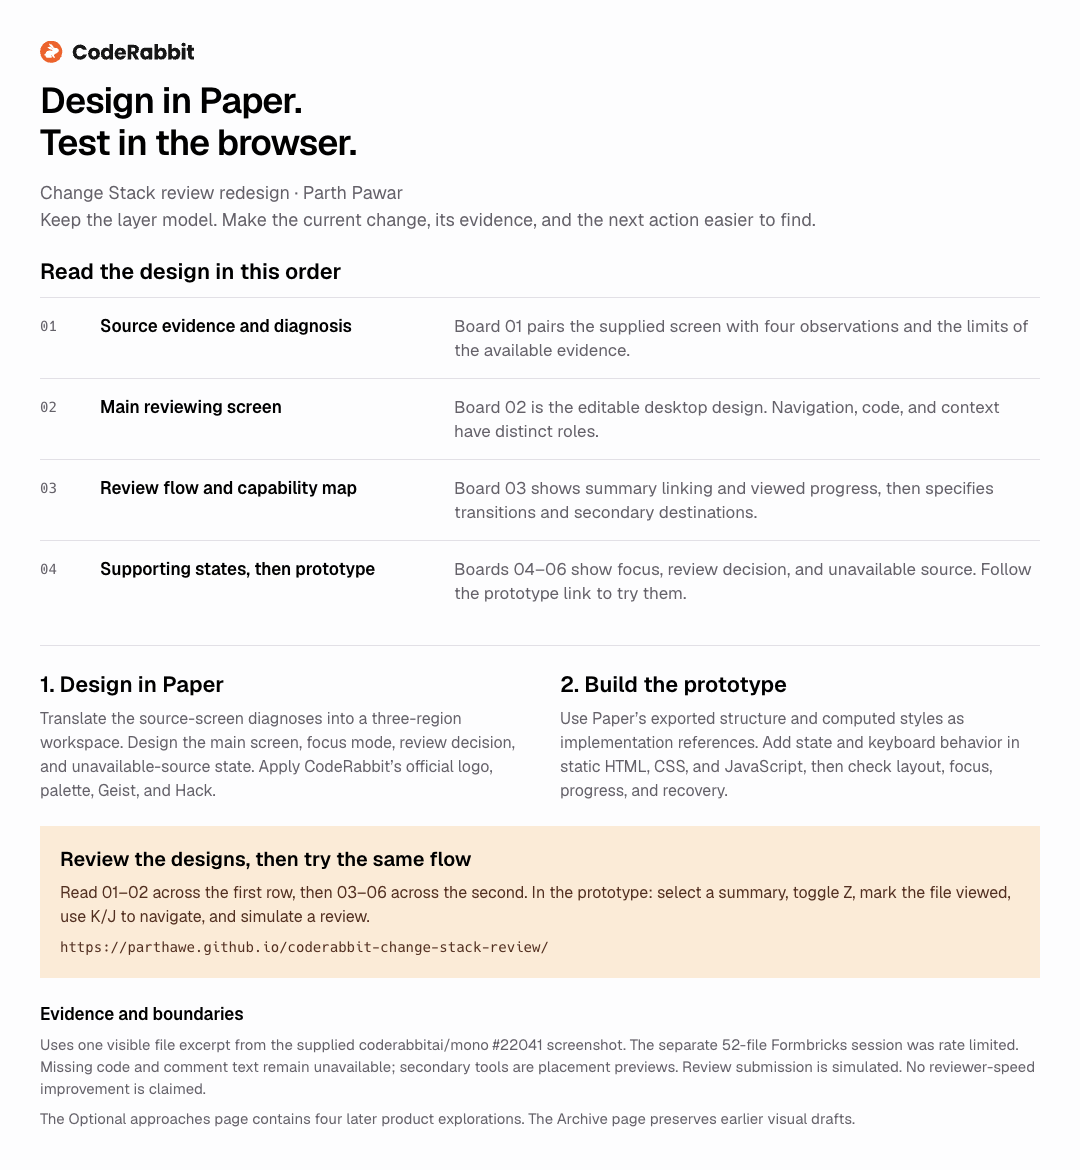
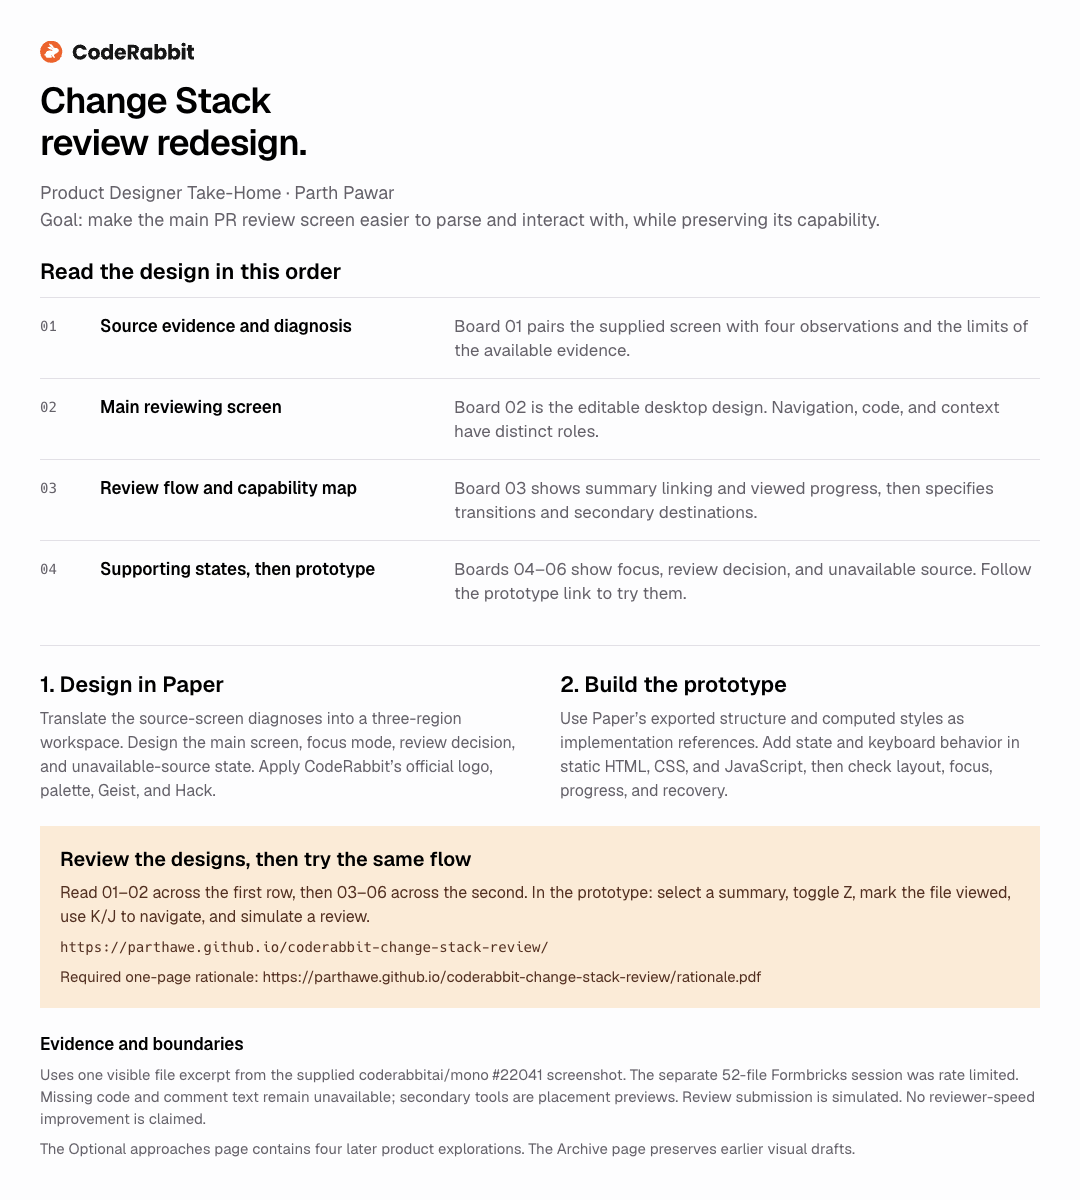
Clarify exact challenge scope and link required rationale

diff --git a/docs/REQUIREMENT-AUDIT.md b/docs/REQUIREMENT-AUDIT.md
@@ -14,7 +14,7 @@ The primary layer-based prototype is close to the assignment. The four later pro
 | Improve visual hierarchy and micro-interactions | J/K, Z, linked summary highlights, split/unified views, reversible viewed state, shortcut guards, draft entry, and simulated review work locally. | Covered within the excerpt |
 | Keep existing capability | Core review interactions work. History, Agent, follow review, diagrams, search/filter, settings, impact analysis, and full-PR scope are placement previews. | Partial |
 | Make the same information easier to scan | Main locations and actions are clearer. Historical open/blocker context is restored and labeled. Latest-change and complexity values are not reconstructed. | Partial fidelity |
-| Show 52 files across seven layers | The linked PR differs from the screenshot example. One visible screenshot file from a two-layer, three-file PR is reproduced. | Not demonstrated |
+| Inspect the 52-file/seven-layer live reference | The brief names this PR as the product reference; it does not require recreating every file. The live session was rate limited, so the supplied screenshot was used. Full-scale behavior remains unverified. | Limited inspection; no all-file deliverable required |
 | Prototype with view access plus one-page explanation | Public GitHub Pages prototype, editable Paper, and one-page rationale are provided. | Covered |
 | One strong screen within a 1–2 hour exercise | Core prototype fits that deliverable shape; twelve alternative product states exceed the original scope. | Keep explorations optional |
 
@@ -47,3 +47,7 @@ A real developer usability study, measured scan/review speed, full seven-layer n
 ## Submission recommendation
 
 Submit the [primary prototype](https://parthawe.github.io/coderabbit-change-stack-review/), the [one-page rationale](https://parthawe.github.io/coderabbit-change-stack-review/rationale.pdf), and the [primary Paper page](https://app.paper.design/file/01M5AQACJZP42ZGTRX7GF9ERE7/p-1-0). Keep the [four approach walkthroughs](https://parthawe.github.io/coderabbit-change-stack-review/approaches.html) as optional exploration.
+
+## Exact-brief clarification
+
+The challenge accepts a Figma file or a viewable prototype plus a one-page explanation or video. Paper is the chosen editable design workspace; the public browser prototype meets the prototype format. The one-page rationale is now linked directly from the Paper starting board and submission note. The primary deliverable remains one main reviewing screen; supporting state frames explain its interactions. Brand alignment and the four optional product explorations are additions requested later, not grading requirements. No claim is made that all source information or secondary functionality is fully reproduced.
